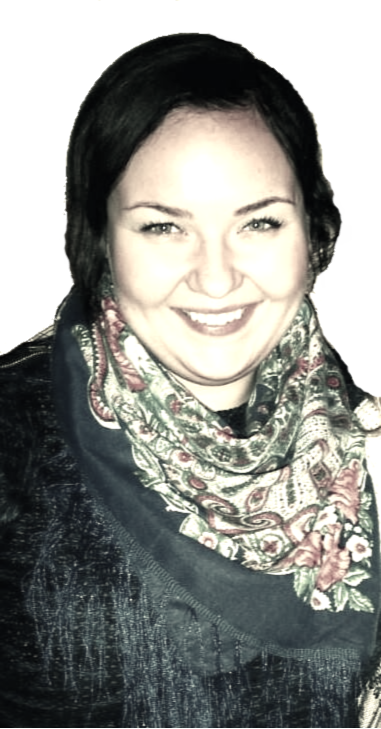
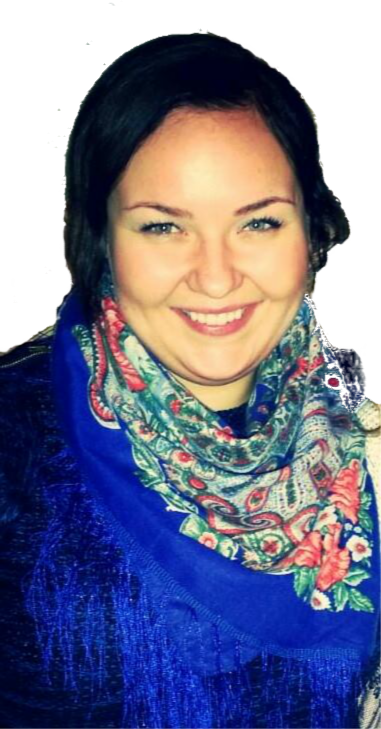
Edited Julia's photo

diff --git a/index.html b/index.html
@@ -310,7 +310,7 @@
 																		<article class='mix portfolio_category_6 '>
 																			<div class='image_holder'>
 																				<a class='portfolio_link_for_touch' href='http://i.imgur.com/EA0swT7.png' target='_self'>
-																					<span class='image'><img width="400" height="400" src="http://i.imgur.com/bbaNPN6.png?1" class="attachment-portfolio-square wp-post-image" alt="julia-burakova" /></span></a><span class='text_holder'><span class='text_outer'><span class='text_inner'><span class='feature_holder'><span class="feature_holder_icons"><a class='lightbox qbutton small white' title='Julia Burakova' href='' data-rel='prettyPhoto[pretty_photo_gallery]'>zoom</a><a class='preview qbutton small white' href='' target='_self'>view</a></span></span></span></span></span></div><div class='portfolio_description'><h5 class="portfolio_title"><a href="" target="_self">Julia Burakova</a></h5><span class="project_category">2015 Speakers</span></div></article>
+																					<span class='image'><img width="400" height="400" src="http://i.imgur.com/vI5z7Dd.png?1" class="attachment-portfolio-square wp-post-image" alt="julia-burakova" /></span></a><span class='text_holder'><span class='text_outer'><span class='text_inner'><span class='feature_holder'><span class="feature_holder_icons"><a class='lightbox qbutton small white' title='Julia Burakova' href='' data-rel='prettyPhoto[pretty_photo_gallery]'>zoom</a><a class='preview qbutton small white' href='' target='_self'>view</a></span></span></span></span></span></div><div class='portfolio_description'><h5 class="portfolio_title"><a href="" target="_self">Julia Burakova</a></h5><span class="project_category">2015 Speakers</span></div></article>
 
 																					<article class='mix portfolio_category_6 '><div class='image_holder'><a class='portfolio_link_for_touch' target='_self'><span class='image'><img width="500" height="490" src="http://i.imgur.com/oRa0MYJ.png" class="attachment-portfolio-square wp-post-image" alt="Dele-Ojewole" /></span></a><span class='text_holder'><span class='text_outer'><span class='text_inner'><span class='feature_holder'><span class="feature_holder_icons"><a class='lightbox qbutton small white' title='Dele Ojewole' href='' data-rel='prettyPhoto[pretty_photo_gallery]'>zoom</a><a class='preview qbutton small white' href='' target='_self'>view</a></span></span></span></span></span></div><div class='portfolio_description'><h5 class="portfolio_title"><a href="" target="_self">Dele Ojewole</a></h5><span class="project_category">2015 Speakers</span></div></article>
 
